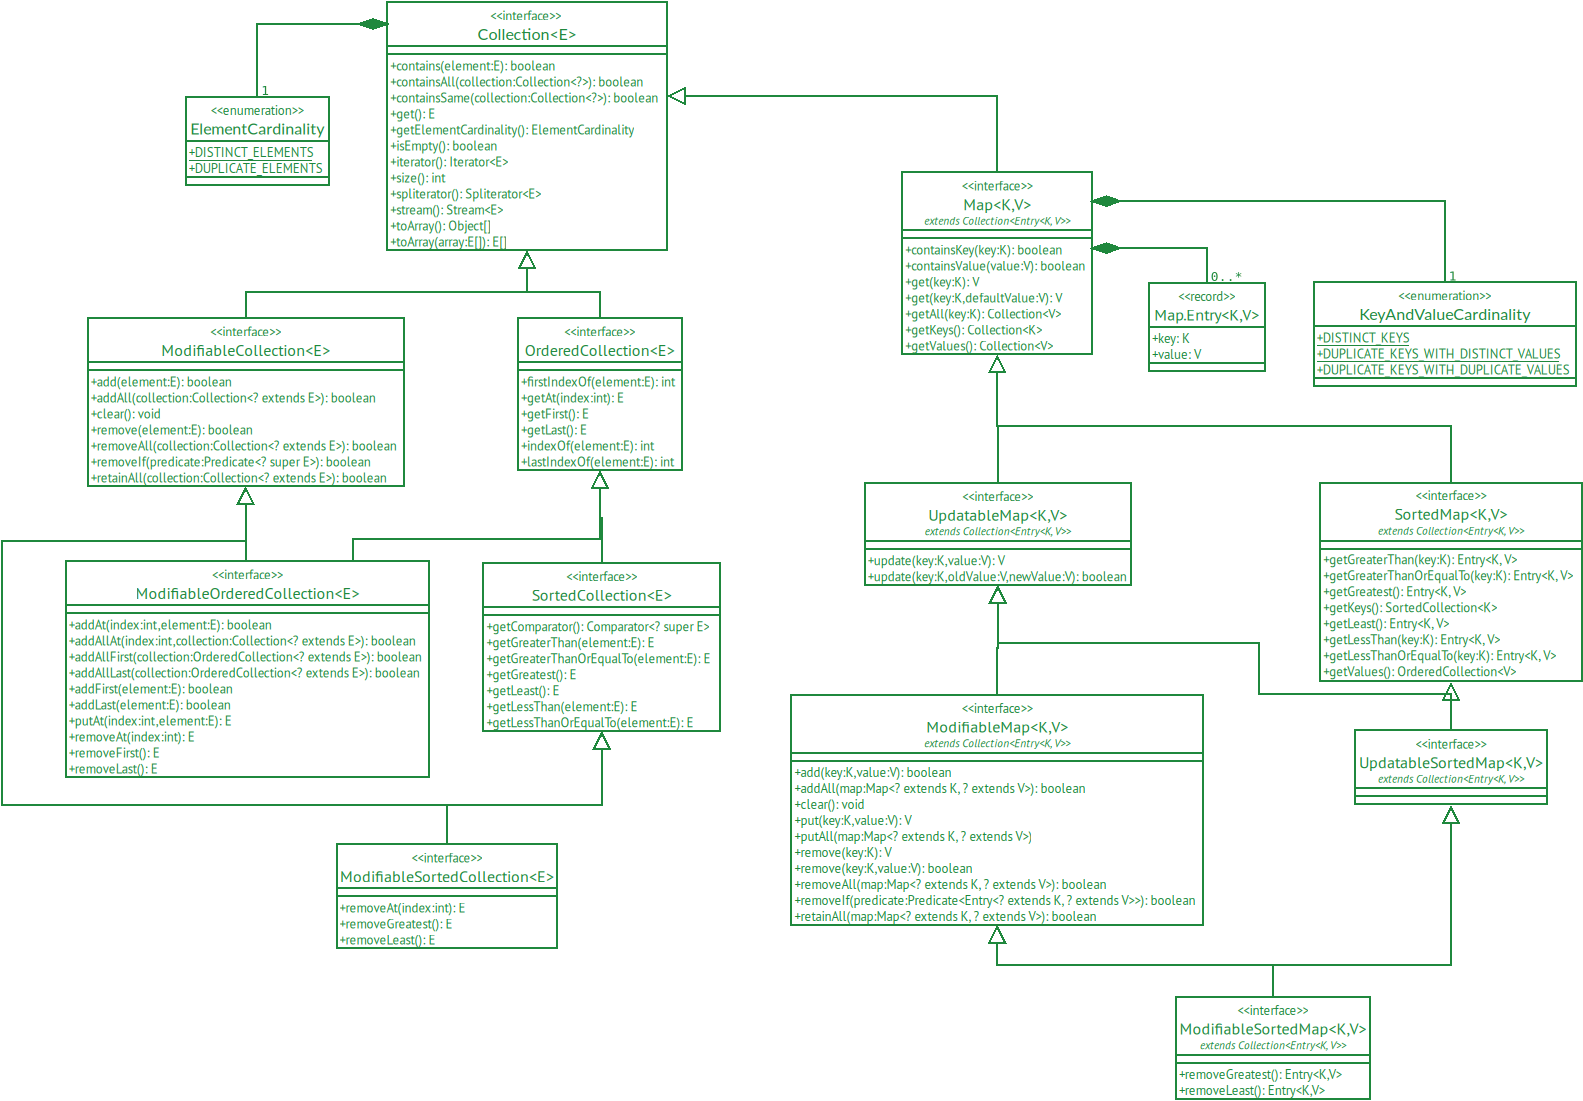
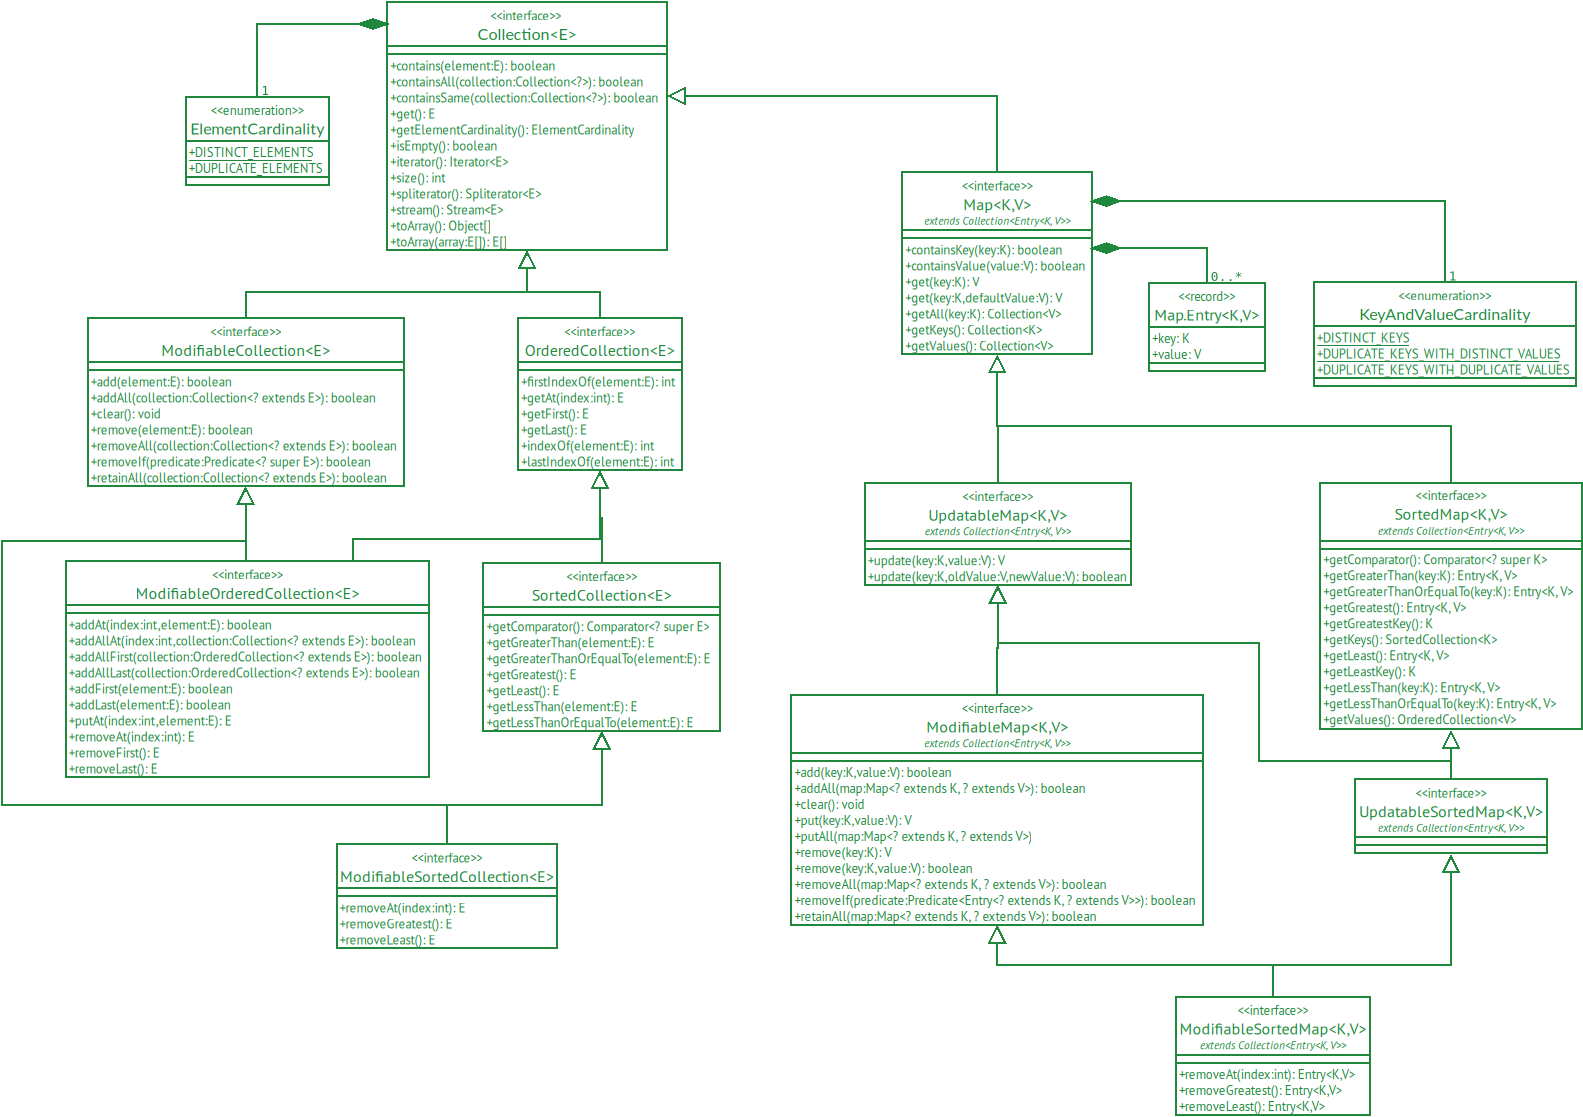
Issue #76: Mapped the methods for SortedMap

diff --git a/README.md b/README.md
@@ -311,14 +311,14 @@ The table below shows how the methods defined on the
 [java.util.SortedMap&lt;K,V>](https://docs.oracle.com/en/java/javase/21/docs/api/java.base/java/util/SortedMap.html)
 interface map to Kolektoj methods.
 
-| JDK 21 Method                                | Kolektoj Class | Kolektoj Method |
-|----------------------------------------------|----------------|-----------------|
-| Comparator&lt;? super K> comparator()        |                |                 |
-| K firstKey()                                 |                |                 |
-| SortedMap&lt;K,V> headMap(K toKey)           |                |                 |
-| K lastKey()                                  |                |                 |
-| SortedMap&lt;K,V> subMap(K fromKey, K toKey) |                |                 |
-| SortedMap&lt;K,V> tailMap(K fromKey)         |                |                 |
+| JDK 21 Method                                | Kolektoj Class    | Kolektoj Method                                                                                    |
+|----------------------------------------------|-------------------|----------------------------------------------------------------------------------------------------|
+| Comparator&lt;? super K> comparator()        | SortedMap&lt;K,V> | Comparator&lt;? super K> getComparator()                                                           |
+| K firstKey()                                 | SortedMap&lt;K,V> | K getLeastKey()                                                                                    |
+| SortedMap&lt;K,V> headMap(K toKey)           | SortedMap&lt;L,W> | static &lt;L,W> SortedMap&lt;L,W> of(SortedMap&lt;? extends L,? extends W> map, Range&lt;L> range) |
+| K lastKey()                                  | SortedMap&lt;K,V> | K getGreatestKey()                                                                                 |
+| SortedMap&lt;K,V> subMap(K fromKey, K toKey) | SortedMap&lt;L,W> | static &lt;L,W> SortedMap&lt;L,W> of(SortedMap&lt;? extends L,? extends W> map, Range&lt;L> range) |
+| SortedMap&lt;K,V> tailMap(K fromKey)         | SortedMap&lt;L,W> | static &lt;L,W> SortedMap&lt;L,W> of(SortedMap&lt;? extends L,? extends W> map, Range&lt;L> range) |
 
 #### java.util.SortedSet&lt;E>
 
